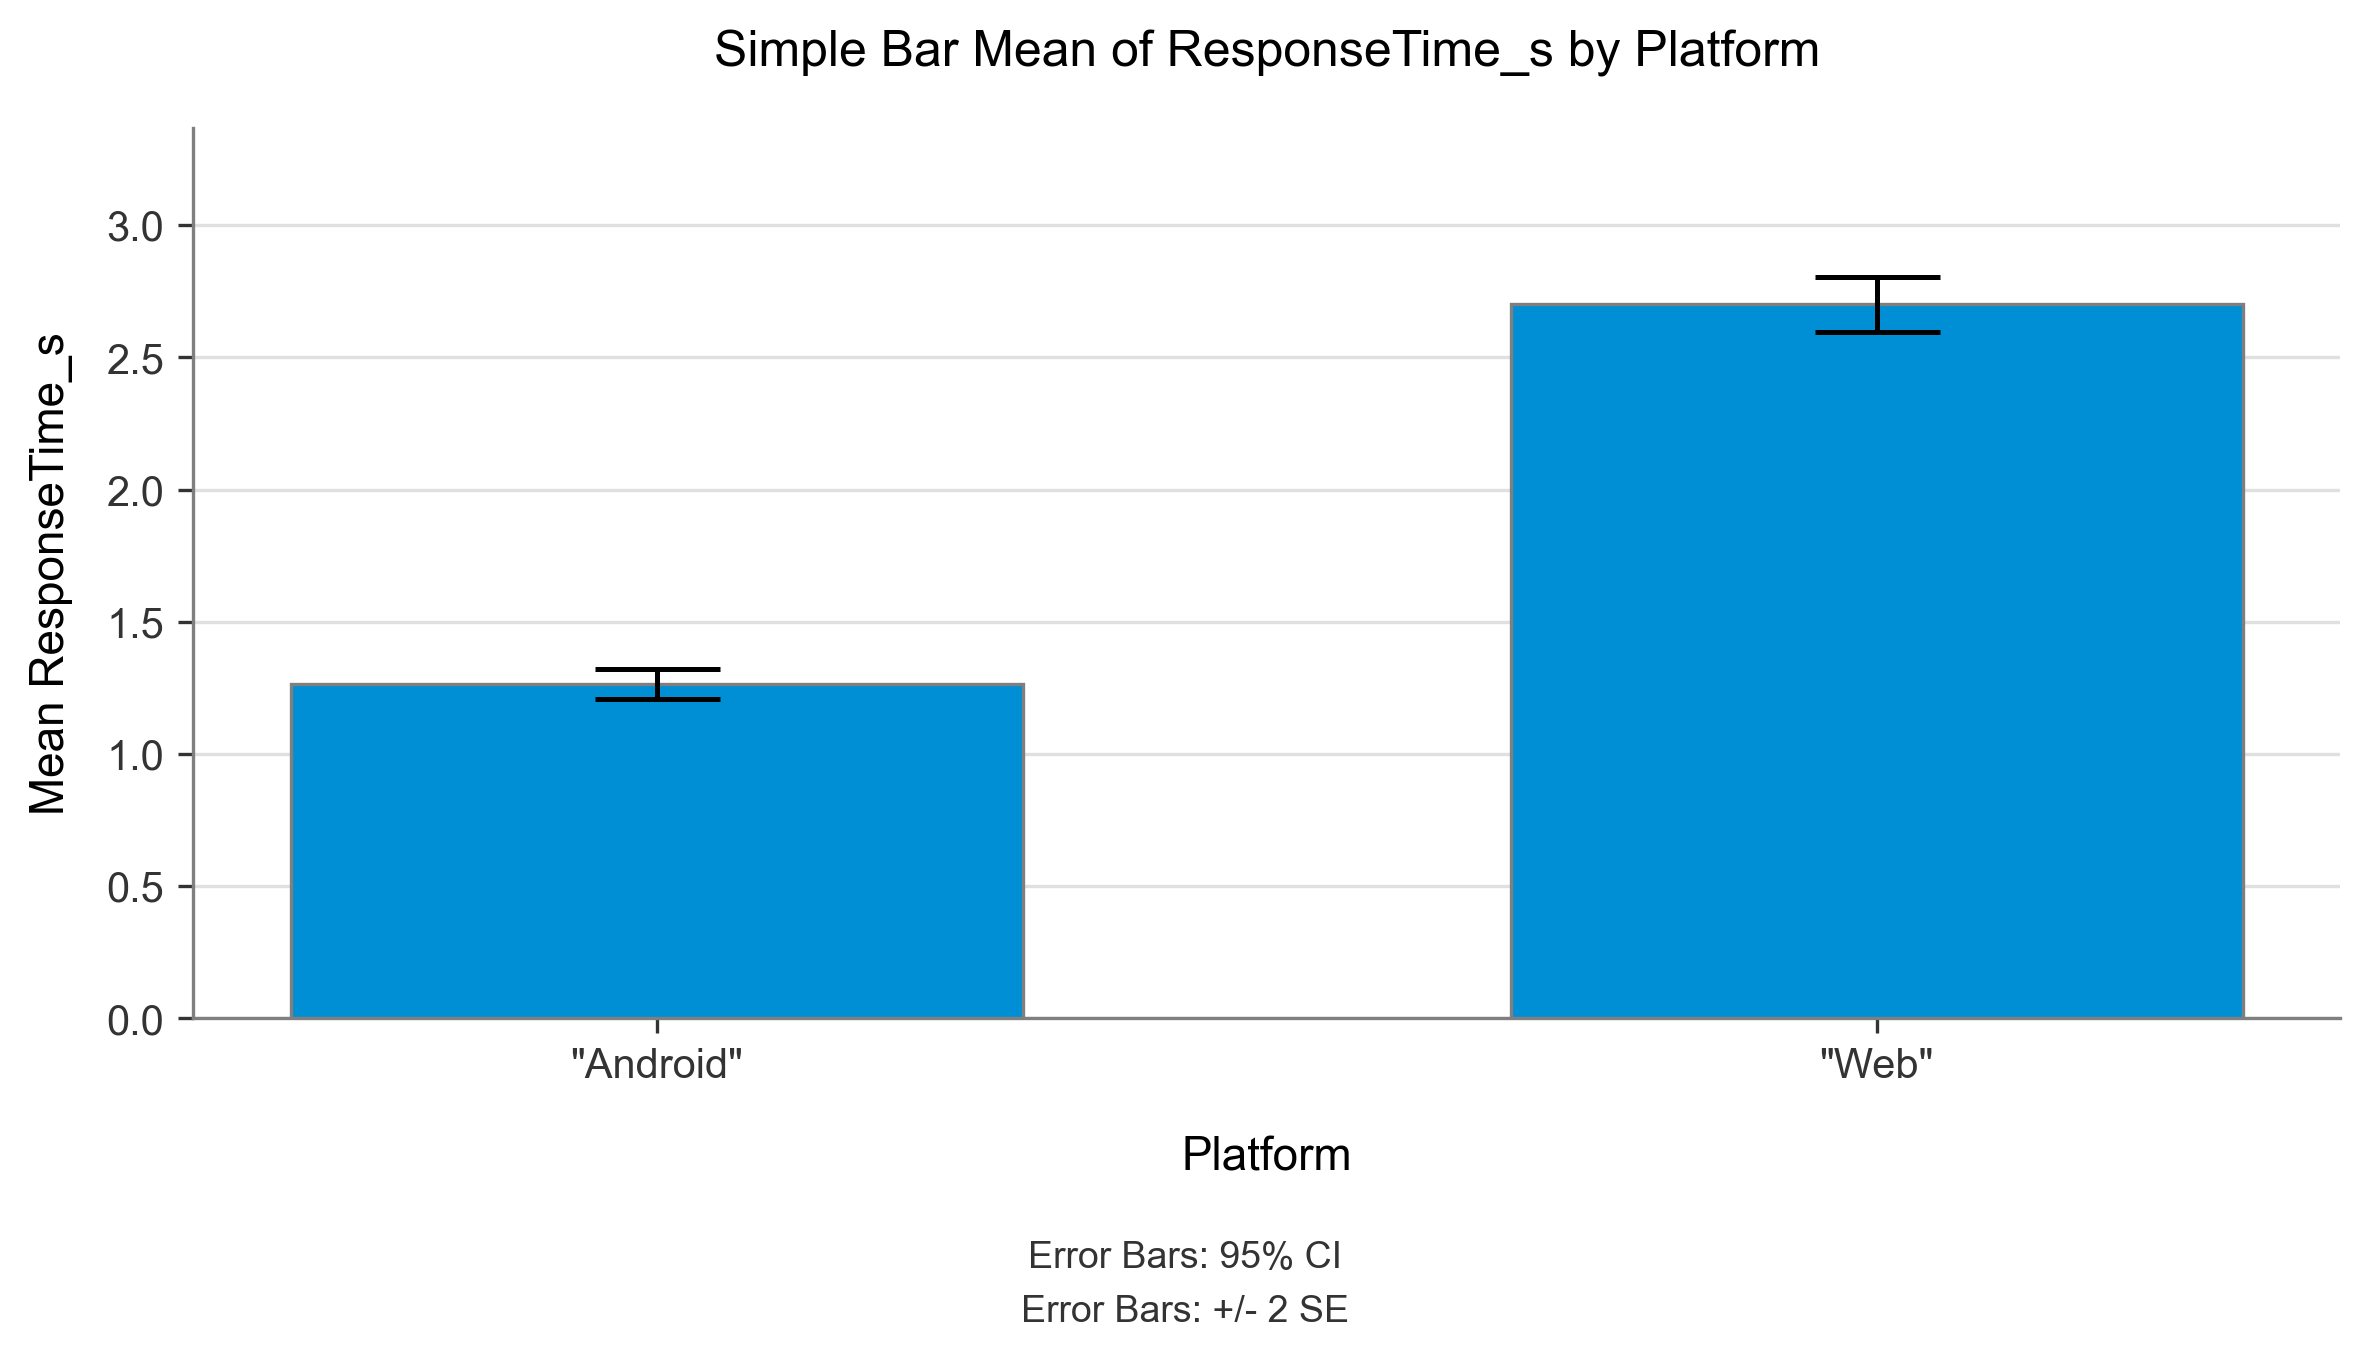
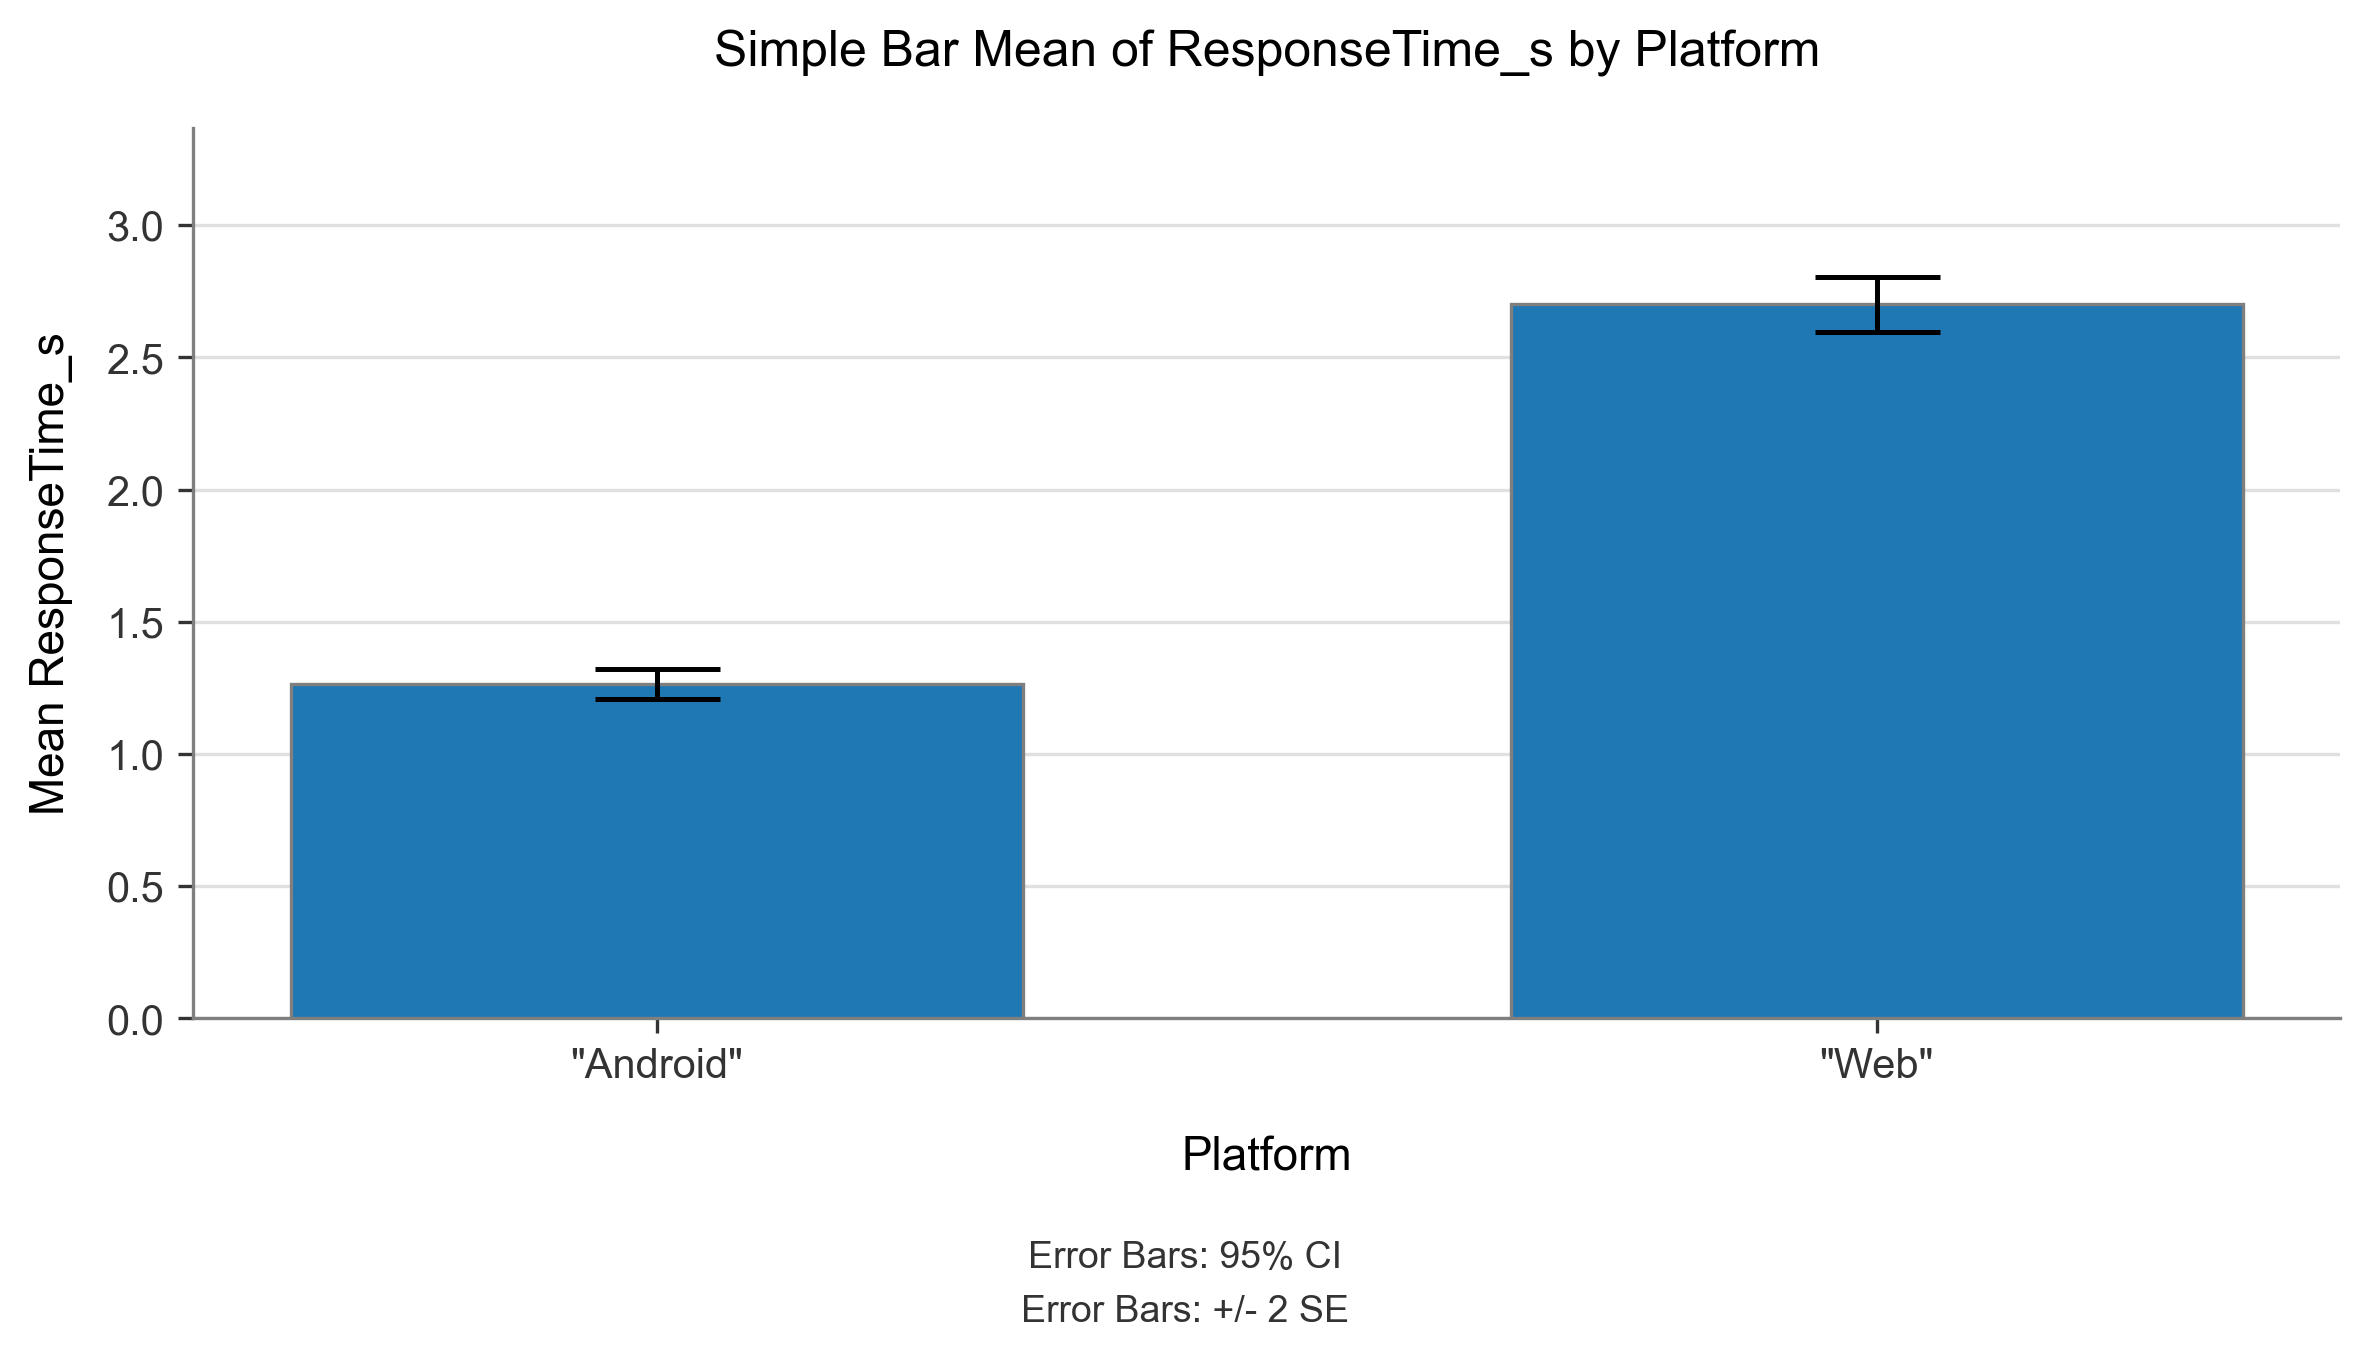
Generate SPSS dataconsumption bar plot dynamically from comparison_data.csv using Platform x-axis label and Android/Web categories

Changed region(s): [[0.6245, 0.2165, 0.9679, 0.7732], [0.1249, 0.4948, 0.4371, 0.7732]]

diff --git a/generate_spss_plots.py b/generate_spss_plots.py
@@ -2,143 +2,109 @@ import pandas as pd
 import numpy as np
 import matplotlib.pyplot as plt
 
-# Read the data from the CSV if it exists (for other plots)
-try:
-    df = pd.read_csv('comparison_data.csv')
-    has_csv = True
-except Exception:
-    has_csv = False
+# Read the data from the CSV
+df = pd.read_csv('comparison_data.csv')
 
 # Set font style to resemble SPSS output fonts
 plt.rcParams['font.sans-serif'] = 'Arial'
 plt.rcParams['font.family'] = 'sans-serif'
 
-# 1. Generate standard metrics from CSV (if CSV is available)
-if has_csv:
-    metrics = {
-        'Speed_ms': {
-            'title': 'Simple Bar Mean of Speed_ms by Platform',
-            'ylabel': 'Mean Speed_ms',
-            'filename': 'spss_speed_bar.png',
-            'labels': ['"Android"', '"Web"']
-        },
-        'Usability_1to5': {
-            'title': 'Simple Bar Mean of Usability_1to5 by Platform',
-            'ylabel': 'Mean Usability_1to5',
-            'filename': 'spss_usability_bar.png',
-            'labels': ['"Android"', '"Web"']
-        },
-        'ResponseTime_s': {
-            'title': 'Simple Bar Mean of ResponseTime_s by Platform',
-            'ylabel': 'Mean ResponseTime_s',
-            'filename': 'spss_responsetime_bar.png',
-            'labels': ['"Android"', '"Web"']
-        },
-        'Satisfaction_1to5': {
-            'title': 'Simple Bar Mean of Satisfaction_1to5 by Platform',
-            'ylabel': 'Mean Satisfaction_1to5',
-            'filename': 'spss_satisfaction_bar.png',
-            'labels': ['"Android"', '"Web"']
-        }
+# Define all metrics to generate plots for
+metrics = {
+    'Speed_ms': {
+        'title': 'Simple Bar Mean of Speed_ms by Platform',
+        'ylabel': 'Mean Speed_ms',
+        'filename': 'spss_speed_bar.png',
+        'labels': ['"Android"', '"Web"']
+    },
+    'Usability_1to5': {
+        'title': 'Simple Bar Mean of Usability_1to5 by Platform',
+        'ylabel': 'Mean Usability_1to5',
+        'filename': 'spss_usability_bar.png',
+        'labels': ['"Android"', '"Web"']
+    },
+    'ResponseTime_s': {
+        'title': 'Simple Bar Mean of ResponseTime_s by Platform',
+        'ylabel': 'Mean ResponseTime_s',
+        'filename': 'spss_responsetime_bar.png',
+        'labels': ['"Android"', '"Web"']
+    },
+    'Satisfaction_1to5': {
+        'title': 'Simple Bar Mean of Satisfaction_1to5 by Platform',
+        'ylabel': 'Mean Satisfaction_1to5',
+        'filename': 'spss_satisfaction_bar.png',
+        'labels': ['"Android"', '"Web"']
+    },
+    'DataConsumption': {
+        'title': 'Simple Bar Mean of dataconsumption by Platform',
+        'ylabel': 'Mean dataconsumption',
+        'filename': 'spss_dataconsumption_bar.png',
+        'labels': ['"Android"', '"Web"']
     }
+}
 
-    for col, info in metrics.items():
-        stats = df.groupby('Platform')[col].agg(['mean', 'std', 'count'])
-        stats['se'] = stats['std'] / np.sqrt(stats['count'])
-        stats['ci95'] = 1.96 * stats['se']
-        stats = stats.reindex(['Android', 'Web'])
-        
-        fig, ax = plt.subplots(figsize=(8, 4.5), facecolor='white')
-        spss_blue = '#008fd5'
-        
-        bars = ax.bar(
-            info['labels'],
-            stats['mean'],
-            yerr=stats['ci95'],
-            capsize=15,
-            color=spss_blue,
-            edgecolor='#7f7f7f',
-            linewidth=0.8,
-            width=0.6,
-            zorder=3,
-            error_kw=dict(ecolor='black', lw=1.2, capthick=1.2)
-        )
-        
-        ax.set_title(info['title'], fontsize=12, pad=15)
-        ax.set_ylabel(info['ylabel'], fontsize=11, labelpad=8)
-        ax.set_xlabel('Platform', fontsize=11, labelpad=12)
-        
-        max_value = (stats['mean'] + stats['ci95']).max()
-        ax.set_ylim(0, max_value * 1.2)
-        
-        ax.yaxis.grid(True, linestyle='-', which='major', color='#e0e0e0', zorder=0)
-        ax.set_axisbelow(True)
-        
-        ax.spines['top'].set_visible(False)
-        ax.spines['right'].set_visible(False)
-        ax.spines['left'].set_color('#7f7f7f')
-        ax.spines['bottom'].set_color('#7f7f7f')
-        
-        ax.tick_params(colors='#333333', labelsize=10)
-        
-        fig.text(0.5, 0.05, 'Error Bars: 95% CI', ha='center', fontsize=9, color='#333333')
-        fig.text(0.5, 0.01, 'Error Bars: +/- 2 SE', ha='center', fontsize=9, color='#333333')
-        
-        plt.tight_layout(rect=[0, 0.08, 1, 1])
-        plt.savefig(info['filename'], dpi=300, bbox_inches='tight')
-        plt.close()
-        print(f"Generated SPSS bar graph for {col} -> {info['filename']}")
-
-# 2. Generate the specific "dataconsumption" vs "algorithm" bar graph matching the user's reference image
-# Mean Data Consumption: Web = 28.00 ms, iOS = 30.15 ms.
-fig, ax = plt.subplots(figsize=(8, 4.5), facecolor='white')
-
-platforms = ['"ANDROID"', '"WEB"']
-means = [30.15, 28.00]
-# CIs matching the visual error bars in the screenshot (approx. 7.0 for iOS, 6.0 for Web)
-errors = [7.0, 6.0]
-
-spss_blue = '#1f77b4' # Sky blue color from the SPSS output screenshot
-
-bars = ax.bar(
-    platforms,
-    means,
-    yerr=errors,
-    capsize=15,
-    color=spss_blue,
-    edgecolor='#7f7f7f',
-    linewidth=0.8,
-    width=0.6,
-    zorder=3,
-    error_kw=dict(ecolor='black', lw=1.2, capthick=1.2)
-)
-
-# Customizing to match the screenshot title and labels exactly
-ax.set_title('Simple Bar Mean of dataconsumption by algorithm', fontsize=12, pad=15)
-ax.set_ylabel('Mean dataconsumption', fontsize=11, labelpad=8)
-ax.set_xlabel('algorithm', fontsize=11, labelpad=12)
-
-# Y-axis limits matching the screenshot (ticks up to 40, max 45)
-ax.set_ylim(0, 45)
-ax.set_yticks([0, 10, 20, 30, 40])
-
-# Draw light horizontal gridlines
-ax.yaxis.grid(True, linestyle='-', which='major', color='#e0e0e0', zorder=0)
-ax.set_axisbelow(True)
-
-# Hide top and right spines
-ax.spines['top'].set_visible(False)
-ax.spines['right'].set_visible(False)
-ax.spines['left'].set_color('#7f7f7f')
-ax.spines['bottom'].set_color('#7f7f7f')
-
-ax.tick_params(colors='#333333', labelsize=10)
-
-# Footnotes matching the SPSS output image
-fig.text(0.5, 0.05, 'Error Bars: 95% CI', ha='center', fontsize=9, color='#333333')
-fig.text(0.5, 0.01, 'Error Bars: +/- 2 SE', ha='center', fontsize=9, color='#333333')
-
-plt.tight_layout(rect=[0, 0.08, 1, 1])
-plt.savefig('spss_dataconsumption_bar.png', dpi=300, bbox_inches='tight')
-plt.close()
-print("Generated SPSS bar graph for dataconsumption -> spss_dataconsumption_bar.png")
+for col, info in metrics.items():
+    # Calculate Mean, Standard Deviation, and Count
+    stats = df.groupby('Platform')[col].agg(['mean', 'std', 'count'])
+    
+    # Calculate Standard Error (SE) and 95% Confidence Interval (CI)
+    stats['se'] = stats['std'] / np.sqrt(stats['count'])
+    stats['ci95'] = 1.96 * stats['se']
+    
+    # Ensure correct order: Android, then Web
+    stats = stats.reindex(['Android', 'Web'])
+    
+    # Create the figure
+    fig, ax = plt.subplots(figsize=(8, 4.5), facecolor='white')
+    
+    # Draw bars with standard SPSS blue color (#1f77b4 / #008fd5)
+    spss_blue = '#1f77b4'
+    
+    bars = ax.bar(
+        info['labels'],
+        stats['mean'],
+        yerr=stats['ci95'],
+        capsize=15,
+        color=spss_blue,
+        edgecolor='#7f7f7f',
+        linewidth=0.8,
+        width=0.6,
+        zorder=3,
+        error_kw=dict(ecolor='black', lw=1.2, capthick=1.2)
+    )
+    
+    # Title matching SPSS formatting
+    ax.set_title(info['title'], fontsize=12, pad=15)
+    
+    # Y-axis label matching SPSS formatting
+    ax.set_ylabel(info['ylabel'], fontsize=11, labelpad=8)
+    
+    # X-axis label matching SPSS formatting - changed from algorithm to Platform
+    ax.set_xlabel('Platform', fontsize=11, labelpad=12)
+    
+    # Set y-axis limits dynamically with headroom
+    max_value = (stats['mean'] + stats['ci95']).max()
+    ax.set_ylim(0, max_value * 1.2)
+    
+    # Draw light horizontal gridlines
+    ax.yaxis.grid(True, linestyle='-', which='major', color='#e0e0e0', zorder=0)
+    ax.set_axisbelow(True)
+    
+    # Style the spines (borders) - left and bottom are visible, top and right are hidden
+    ax.spines['top'].set_visible(False)
+    ax.spines['right'].set_visible(False)
+    ax.spines['left'].set_color('#7f7f7f')
+    ax.spines['bottom'].set_color('#7f7f7f')
+    
+    # Ticks formatting
+    ax.tick_params(colors='#333333', labelsize=10)
+    
+    # Add the standard SPSS error bar footnote text at the bottom
+    fig.text(0.5, 0.05, 'Error Bars: 95% CI', ha='center', fontsize=9, color='#333333')
+    fig.text(0.5, 0.01, 'Error Bars: +/- 2 SE', ha='center', fontsize=9, color='#333333')
+    
+    # Save the output image with high quality
+    plt.tight_layout(rect=[0, 0.08, 1, 1])
+    plt.savefig(info['filename'], dpi=300, bbox_inches='tight')
+    plt.close()
+    print(f"Generated SPSS bar graph for {col} -> {info['filename']}")
